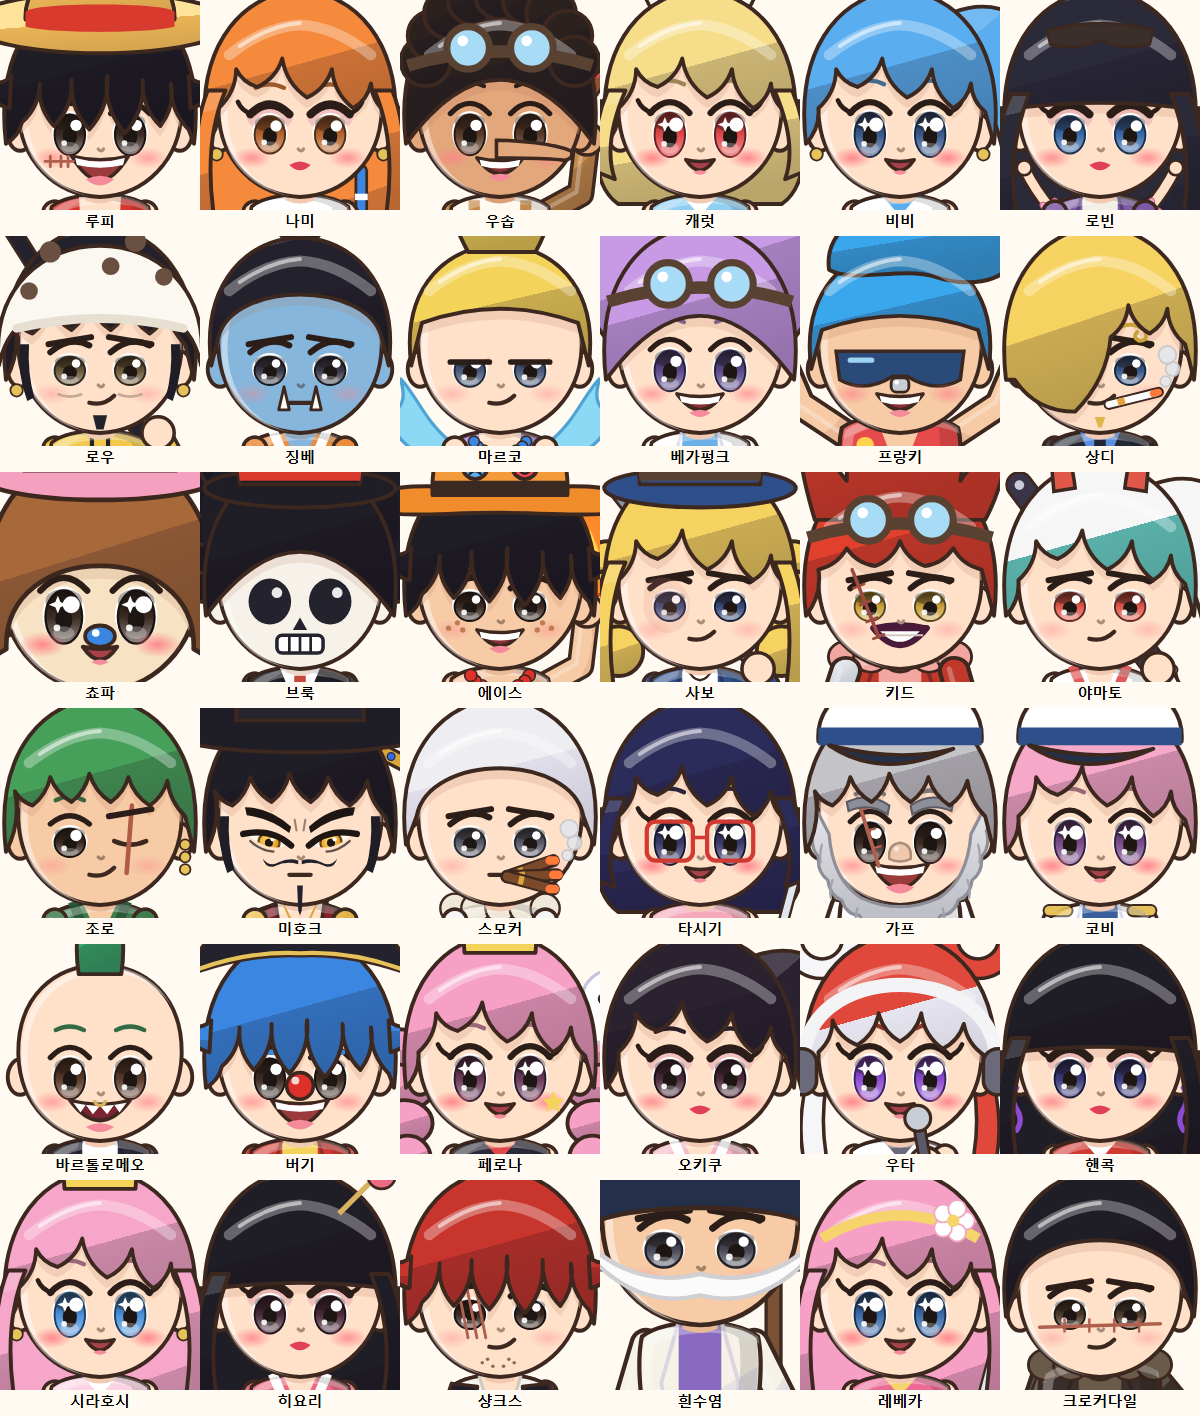
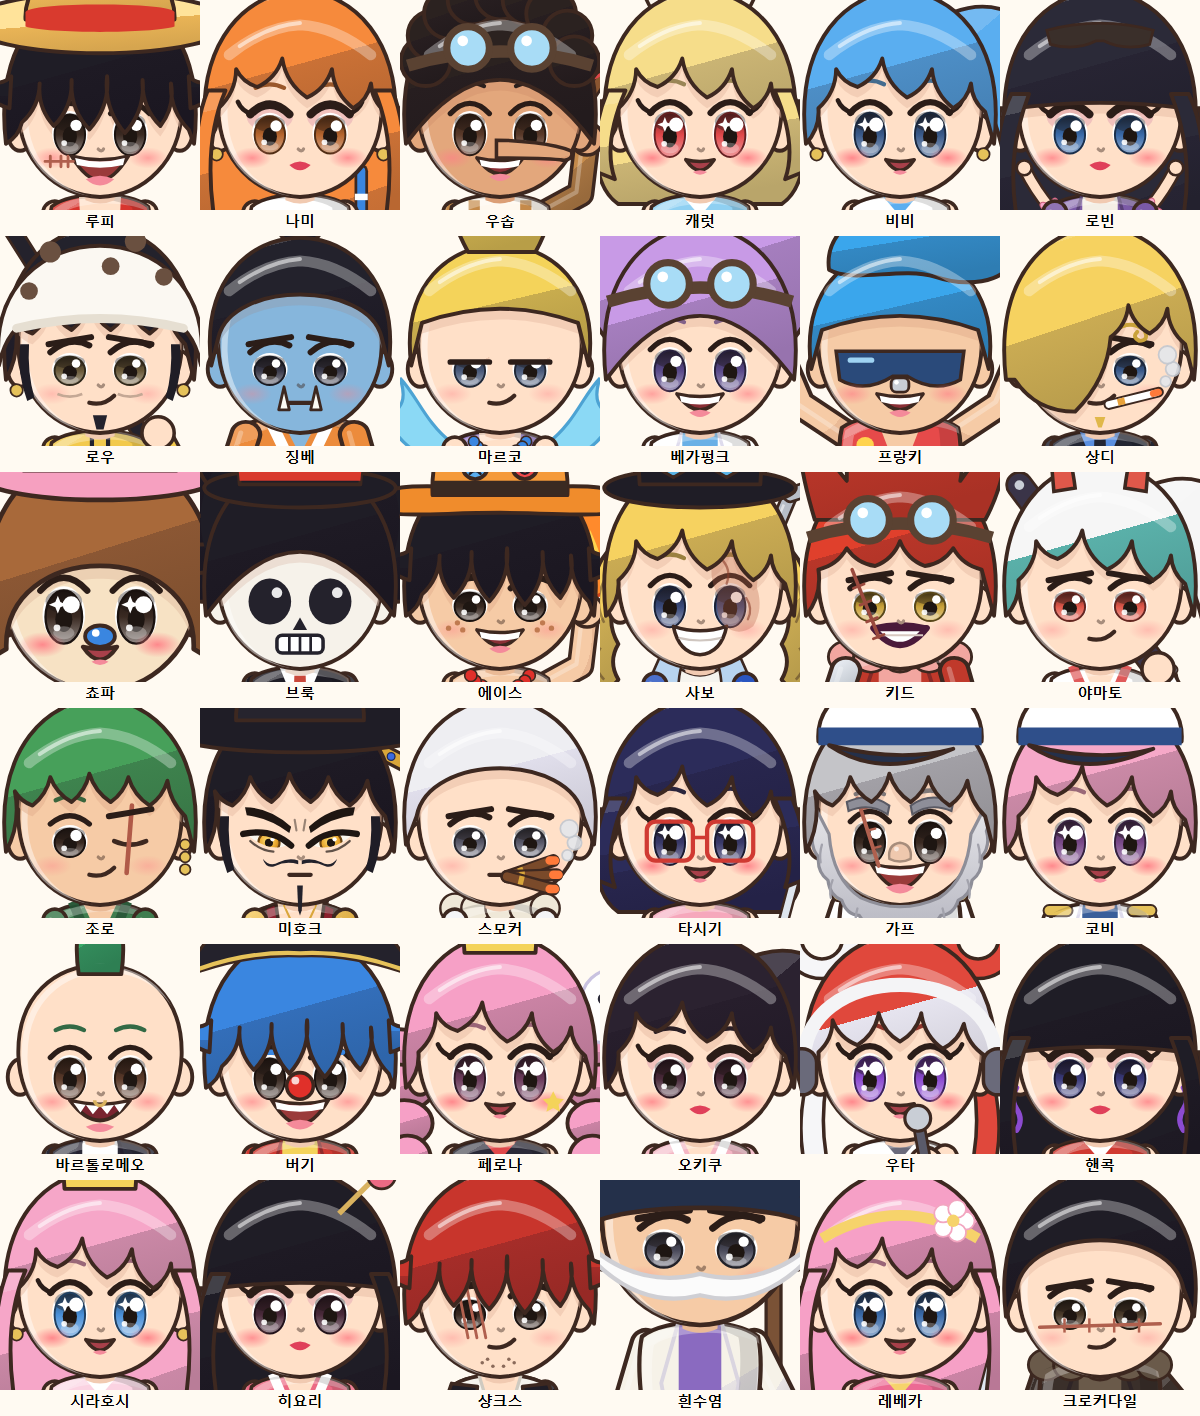
원피스직원 v2: 사보 얼굴 · 차림 다시(검은 실크해트 + 하늘색 육각 고글 · 어깨까지 물결 금발 · 왼쪽 눈 화상 흉터 · 이 드러낸 웃음 · 파란 코트 · 세운 하늘색 깃 · 큰 크라바트 · 검은 장갑 · 금 버클 완장 · 팔짱 · 등 뒤 쇠파이프) · 징베 다부진 체격 · 오피스 그림 다시 생성

Changed region(s): [[0.4933, 0.3107, 0.6783, 0.4972], [0.185, 0.2797, 0.3083, 0.3418]]

diff --git a/jugansa/ai-office/ai-jugansa/design/skins/원피스직원_v2/svg_chars.py b/jugansa/ai-office/ai-jugansa/design/skins/원피스직원_v2/svg_chars.py
@@ -31,7 +31,7 @@ ROSTER = {
     "analysis": [
         C("로빈", "blunt", "#2b2a38", "coat", "#7b5aa6", "#f4efe6", eyec="#3a6aa8", girl=True, vibe="glam", pose="cross", ex=["hana_arms", "sunglasses_head"], legs="#3a3448"),
         C("로우", "short", "#23222c", "hoodie", "#f2c94c", "#23222c", hat="law", vibe="cool", pose="shoulder", props=["nodachi"], ex=["heart_jolly", "sideburns", "goatee", "earrings_gold", "eyebags"], eyec="#6a5a3a", legs="#3a3a40"),
-        C("징베", "topknot", "#23222c", "kimono", "#ec8b3c", "#ffffff", "#2a5ea8", skin="#86b6dc", vibe="cool", mouth="flat", pose="cross", eyec="#3a3a4a", legs="#2a5ea8", ex=["tusks"]),
+        C("징베", "topknot", "#23222c", "kimono", "#ec8b3c", "#ffffff", "#2a5ea8", skin="#86b6dc", vibe="cool", mouth="flat", pose="cross", eyec="#3a3a4a", legs="#2a5ea8", ex=["burly", "tusks"]),
         C("마르코", "pineapple", "#f4d35a", "vest_open", "#8a6ac0", "#8a6ac0", vibe="cool", eyes="sleepy", pose="cross", props=["blue_flame"], ex=["wb_tattoo", "beads_blue"], eyec="#4a5a7a"),
         C("베가펑크", "big_round", "#c89ae6", "labcoat", "#ffffff", "#6ab0e6", vibe="fun", pose="hold", props=["tablet"], eyec="#5a4a8a", ex=["goggles_head"]),
     ],
@@ -41,7 +41,8 @@ ROSTER = {
         C("쵸파", "chopper_fur", "#a8693a", "fur", "#a8693a", "#f2d6b0", skin="#f7e2c4", hat="chopper", eyec="#3a2a22", vibe="cute", pose="wave", ex=["blue_nose", "tiny_body"], legs="#e88aa8", shorts=True, shoes="hoof"),
         C("브룩", "afro", "#1f1d26", "suit", "#1f1d26", "#ffffff", "#c9483b", skin="#f6f2ea", hat="tophat", eyes="skull", mouth="skull", vibe="fun", pose="hold", props=["cane"]),
         C("에이스", "messy", "#1f1d26", "shirtless", SK2, skin=SK2, hat="ace", mouth="grin", vibe="cool", pose="fist", props=["flame"], ex=["asce", "ace_belt", "freckles", "beads_red"], eyec="#3a2a22", legs="#2b3a5a", shorts=True),
-        C("사보", "wavy", "#f6d260", "coat", "#2f4f8a", "#ffffff", hat="sabo", eyec="#3a4a7a", vibe="cool", pose="shoulder", props=["pipe"], ex=["scar_sabo", "cravat"]),
+        C("사보", "wavy", "#f6d260", "coat", "#2a55c0", "#ffffff", hat="sabo", eyec="#3a4a7a", eyes="round", mouth="smile_teeth", vibe="cool", pose="cross", props=["pipe_back"],
+          ex=["scar_sabo", "popped_collar", "cravat", "black_gloves", "armband"]),
         C("키드", "flame", "#e0402c", "fur_coat", "#c0392b", "#f2a6a0", mouth="kid", vibe="cool", pose="cross", ex=["burly", "metal_arm", "stitch_scar", "goggles_head"], eyec="#c9a23a", legs="#2b2a38"),
         C("야마토", "pony", "#f6f6f6", "kimono", "#ffffff", "#e05a5a", "#8c4bd0", hair2="#6ad8cc", eyec="#e0584a", girl=True, vibe="cool", pose="shoulder", props=["club"], ex=["wrist_cuffs", "horns"], legs="#ffffff"),
     ],
@@ -114,7 +115,7 @@ def hair_front(lk):
         extra = f'<path d="M 40,-14 Q 54,22 46,60 L 57,58 Q 62,10 50,-14 Z M -40,-14 Q -54,22 -46,60 L -57,58 Q -62,10 -50,-14 Z" {H}/>'
     elif hs in ("side", "long", "long_wavy", "pony", "bob", "bunny", "drills", "wavy"):
         p = CAP + "L 48,-4 " + strands([(48, -4), (40, -20), (30, -6), (18, -28), (4, -12), (-10, -34), (-24, -18), (-36, -28), (-46, -6), (-53, 14)]) + "Z"
-        if hs in ("long", "long_wavy", "bob", "bunny", "wavy"):
+        if hs in ("long", "long_wavy", "bob", "bunny"):
             ln = 34 if hs in ("bob", "bunny") else 58
             extra = f'<path d="M 42,-16 Q 55,14 48,{ln} L 58,{ln - 4} Q 62,8 52,-16 Z M -42,-16 Q -55,14 -48,{ln} L -58,{ln - 4} Q -62,8 -52,-16 Z" {H}/>'
     elif hs == "sanji":
@@ -169,8 +170,11 @@ def hair_back(lk):
             col = lk[c]
             s += f'<path d="M {sx * 46},-10 Q {sx * 62},30 {sx * 52},64 L {sx * 40},60 Q {sx * 48},26 {sx * 36},-10 Z" fill="{col}" stroke="{INK}" stroke-width="2"/>'
             s += f'<circle cx="{sx * 44}" cy="-70" r="17" fill="none" stroke="{INK}" stroke-width="13"/><circle cx="{sx * 44}" cy="-70" r="17" fill="none" stroke="{col}" stroke-width="9"/>'
-    elif hs == "wavy":
-        for sx in (-1, 1): s += "".join(f'<circle cx="{sx * (52 - k * 2)}" cy="{-14 + k * 16}" r="14" {H}/>' for k in range(4))
+    elif hs == "wavy":       # 사보: 어깨까지 내려오는 물결 머리 (바깥으로 살짝 말림)
+        for sx in (-1, 1):
+            s += (f'<path d="M {sx * 40},-30 Q {sx * 62},-20 {sx * 58},0 Q {sx * 68},12 {sx * 60},26 Q {sx * 70},40 {sx * 58},52 Q {sx * 52},58 {sx * 46},50 '
+                  f'Q {sx * 52},40 {sx * 46},30 Q {sx * 54},16 {sx * 46},4 Q {sx * 50},-12 {sx * 36},-18 Z" {H}/>'
+                  f'<path d="M {sx * 54},-6 Q {sx * 60},6 {sx * 54},18 M {sx * 56},32 Q {sx * 62},42 {sx * 54},50" stroke="{INK}" stroke-width="1.4" fill="none" opacity=".45"/>')
     elif hs == "bun": s += f'<circle cx="0" cy="-78" r="18" {H}/>'
     elif hs == "topknot": s += f'<ellipse cx="0" cy="-72" rx="12" ry="10" {H}/>'
     elif hs in ("bob", "bunny"): s += f'<path d="M -56,-10 C -62,20 -58,40 -46,48 L 46,48 C 58,40 62,20 56,-10 Z" {H}/>'
@@ -248,6 +252,9 @@ def mouth(lk):
     if m == "grin":
         return (f'<path d="M -13,22 Q 0,40 13,22 Q 0,25 -13,22 Z" fill="#8a2f36" stroke="{INK}" stroke-width="2" stroke-linejoin="round"/>'
                 '<path d="M -11.5,23 Q 0,26 11.5,23 L 10.5,26.5 Q 0,29.5 -10.5,26.5 Z" fill="#ffffff"/><path d="M -6,32.5 Q 0,37.5 6,32.5 Q 0,29.5 -6,32.5 Z" fill="#f48a9a"/>')
+    if m == "smile_teeth":   # 사보: 이를 드러내고 씩 웃음
+        return (f'<path d="M -15,20 Q 0,25 15,20 Q 12,35 0,36 Q -12,35 -15,20 Z" fill="#ffffff" stroke="{INK}" stroke-width="2" stroke-linejoin="round"/>'
+                '<path d="M -12,26.5 Q 0,29.5 12,26.5" stroke="#cfc6c0" stroke-width="1.2" fill="none"/>')
     if m == "wild":         # 바르톨로메오: 크게 벌린 입 + 들쭉날쭉한 이
         return (f'<path d="M -17,21 Q 0,44 17,21 Q 0,26 -17,21 Z" fill="#7a2430" stroke="{INK}" stroke-width="2.2" stroke-linejoin="round"/>'
                 '<path d="M -15,22.5 L -11,28 L -8,23.6 L -4,29 L 0,24.2 L 4,29 L 8,23.6 L 11,28 L 15,22.5 Q 0,26 -15,22.5 Z" fill="#ffffff"/>'
@@ -279,7 +286,9 @@ def face_extras(lk):
     if "goatee" in ex: s += '<path d="M -4,34 L 4,34 L 2,42 L -2,42 Z" fill="#23222c"/>'
     if "goatee_blond" in ex: s += '<path d="M -3,35 L 3,35 L 1,41 L -1,41 Z" fill="#e0b84a"/>'
     if "eyebags" in ex: s += f'<path d="M -24,22 Q -17,25 -10,22 M 10,22 Q 17,25 24,22" stroke="{mix(sk, INK, 0.3)}" stroke-width="1.5" fill="none"/>'
-    if "scar_sabo" in ex: s += '<path d="M -31,-4 Q -24,-10 -14,-6 Q -4,0 -6,12 Q -8,22 -18,24 Q -30,22 -32,10 Z" fill="#d88a7a" opacity=".16"/>'
+    if "scar_sabo" in ex:
+        s += '<path d="M 8,-22 Q 16,-30 26,-24 Q 34,-14 32,-2 Q 36,10 30,20 Q 22,26 14,20 Q 8,12 10,2 Q 4,-8 8,-22 Z" fill="#b8644a" opacity=".32"/>'
+        s += '<path d="M 12,-18 Q 18,-12 15,-4 M 26,4 Q 30,10 27,16" stroke="#8a3e2c" stroke-width="1.3" fill="none" opacity=".6" stroke-linecap="round"/>'
     if "scar_shanks" in ex: s += "".join(f'<path d="M {-24 + k * 5},-8 L {-18 + k * 5},22" stroke="#b0604e" stroke-width="1.6" stroke-linecap="round"/>' for k in range(3))
     if "scar_croc" in ex: s += '<path d="M -34,16 L 34,14" stroke="#b0604e" stroke-width="2" stroke-linecap="round"/>' + "".join(f'<path d="M {x},11 L {x},19" stroke="#b0604e" stroke-width="1.4"/>' for x in (-20, -6, 8, 22))
     if "scar_garp" in ex: s += '<path d="M -24,-16 L -12,22" stroke="#b0604e" stroke-width="2.2" stroke-linecap="round"/><path d="M -22,-10 l 4,-1 M -18,2 l 4,-1 M -15,12 l 4,-1" stroke="#b0604e" stroke-width="1.4" stroke-linecap="round"/>'
@@ -347,10 +356,13 @@ def hat(lk):
                 '<path d="M -17,-72 L -16,-71 M -12,-72 L -11,-71 M -17,-66 Q -14,-69 -11,-66" stroke="#1f1d26" stroke-width="1.4" fill="none" stroke-linecap="round"/>'
                 '<path d="M 11,-72 L 12,-71 M 16,-72 L 17,-71 M 11,-68 Q 14,-64 17,-68" stroke="#1f1d26" stroke-width="1.4" fill="none" stroke-linecap="round"/>')
     if h in ("tophat", "sabo"):
-        c = "#1f1d26" if h == "tophat" else "#2f4f8a"
-        g = "".join(f'<circle cx="{sx * 14}" cy="-86" r="10" fill="#a8dcf6" stroke="#5a4232" stroke-width="3.5"/>' for sx in (-1, 1)) if h == "sabo" else ""
+        c = "#1f1d26"
+        hexa = lambda cx, cy, r: " ".join(f"{cx + r * math.cos(math.radians(30 + k * 60)):.1f},{cy + r * math.sin(math.radians(30 + k * 60)):.1f}" for k in range(6))
+        g = (f'<path d="M -35,-76 L 35,-76 L 35,-68 L -35,-68 Z" fill="#2a7a8a"/>'
+             + "".join(f'<polygon points="{hexa(sx * 15, -76, 12)}" fill="#5ab4e6" stroke="{INK}" stroke-width="1.8"/><polygon points="{hexa(sx * 15, -76, 7.5)}" fill="#24203a"/><path d="M {sx * 15 - 4},-80 L {sx * 15 + 1},-73" stroke="#8a7ae0" stroke-width="2" opacity=".8"/>' for sx in (-1, 1))
+             + '<rect x="-4" y="-79" width="8" height="5" rx="1.5" fill="#c9ced6" stroke="#3d2820" stroke-width="1"/>') if h == "sabo" else ""
         return (f'<ellipse cx="0" cy="-58" rx="54" ry="11" fill="{c}" {S}/><path d="M -34,-60 L -38,-128 Q 0,-136 38,-128 L 34,-60 Z" fill="{c}" {S}/>'
-                f'<path d="M -35,-72 L 35,-72 L 34,-62 L -34,-62 Z" fill="{"#d93a2e" if h == "tophat" else "#5a4232"}"/>' + g)
+                + (f'<path d="M -35,-72 L 35,-72 L 34,-62 L -34,-62 Z" fill="#d93a2e"/>' if h == "tophat" else "") + g)
     if h == "chopper":
         ant = "".join(f'<path d="M {sx * 30},-80 Q {sx * 52},-96 {sx * 58},-124 M {sx * 50},-100 Q {sx * 66},-100 {sx * 74},-112 M {sx * 44},-90 Q {sx * 34},-108 {sx * 38},-120" stroke="#8a5530" stroke-width="7" fill="none" stroke-linecap="round"/>' for sx in (-1, 1))
         return (ant + f'<ellipse cx="0" cy="-58" rx="58" ry="12" fill="#f6a0c0" {S}/><path d="M -36,-60 Q -42,-118 0,-120 Q 42,-118 36,-60 Z" fill="#f8acc8" {S}/>'
@@ -422,6 +434,7 @@ def props_behind(lk, R):
             s += stick(58, 96, -66, -100, 8, "#24222c") + "".join(f'<path d="M {58 - k * 22},{96 - k * 35} l -5,4 m 0,-8 l 10,8" stroke="#ffffff" stroke-width="1.6"/>' for k in range(1, 5))
             s += f'<ellipse cx="46" cy="78" rx="9" ry="5" fill="#f4f1ea" stroke="{INK}" stroke-width="1.6"/>'
         elif p == "pipe": s += stick(hx + 4, hy + 6, -52, -66, 6, "#8a93a3")
+        elif p == "pipe_back": s += stick(-34, 150, 56, -64, 7, "#b8bec8") + stick(56, -64, 74, -70, 7, "#b8bec8") + '<path d="M -30,140 L 52,-58" stroke="#ffffff" stroke-width="1.6" opacity=".55"/>'
         elif p == "club":
             s += stick(hx + 4, hy + 6, -50, -70, 14, "#3a3448") + "".join(f'<circle cx="{-50 + k * 14}" cy="{-70 + k * 19}" r="3" fill="#c9ced6"/>' for k in range(4))
         elif p == "bisento":
@@ -513,7 +526,11 @@ def outfit(lk, team):
     if "cross_necklace" in lk["ex"]:
         s += '<path d="M -10,44 Q -4,58 0,62 Q 4,58 10,44" stroke="#d9a63a" stroke-width="1.3" fill="none"/>'
         s += f'<path d="M -1.8,61 L 1.8,61 L 1.8,65 L 6,65 L 6,68.5 L 1.8,68.5 L 1.8,78 L -1.8,78 L -1.8,68.5 L -6,68.5 L -6,65 L -1.8,65 Z" fill="#e6b84a" stroke="{INK}" stroke-width="1.1"/>'
-    if "cravat" in lk["ex"]: s += f'<path d="M -9,42 Q 0,60 9,42 Q 0,48 -9,42 Z" fill="#ffffff" stroke="{INK}" stroke-width="1.5"/>'
+    if "popped_collar" in lk["ex"]: s += "".join(f'<path d="M {sx * 6},44 L {sx * 22},30 L {sx * 30},48 L {sx * 14},56 Z" fill="#b8d4f0" stroke="{INK}" stroke-width="1.6" stroke-linejoin="round"/>' for sx in (-1, 1))
+    if "cravat" in lk["ex"]:
+        big = "popped_collar" in lk["ex"]
+        s += (f'<path d="M -12,44 Q 0,52 12,44 Q 16,62 8,74 Q 12,86 4,96 L -4,96 Q -12,86 -8,74 Q -16,62 -12,44 Z" fill="#f6f4ee" stroke="{INK}" stroke-width="1.6" stroke-linejoin="round"/>'
+              '<path d="M -4,56 Q -2,72 -5,88 M 4,56 Q 2,72 5,88" stroke="#d6d0c4" stroke-width="1.3" fill="none"/>') if big else f'<path d="M -9,42 Q 0,60 9,42 Q 0,48 -9,42 Z" fill="#ffffff" stroke="{INK}" stroke-width="1.5"/>'
     return s
 
 def skirt_tails(lk):
@@ -586,13 +603,17 @@ def body(lk, team, pose=None):
             out_ += band(1, 0.82, "#8a5a30", 4); x, y, dx, dy = at(1, 0.82)
             out_ += f'<circle cx="{x - dy * 9:.1f}" cy="{y + dx * 9:.1f}" r="4.2" fill="#cfeefb" stroke="{INK}" stroke-width="1.2"/><path d="M {x - dy * 9 - 2:.1f},{y + dx * 9:.1f} L {x - dy * 9 + 2:.1f},{y + dx * 9:.1f}" stroke="#e0484a" stroke-width="1.2"/>'
         if "wrist_cuffs" in ex: out_ += band(len(pts) - 2, 0.84, "#8a93a3", 5)
+        if "armband" in ex and side == "R":
+            out_ += band(0, 0.62, "#1f1d26", 7); x, y, _, _ = at(0, 0.62)
+            out_ += f'<rect x="{x - 3.5:.1f}" y="{y - 4:.1f}" width="7" height="8" rx="1" fill="none" stroke="#e6b84a" stroke-width="1.8"/>'
         return out_
     out = {"behind": "", "front": "", "after_head": ""}
     out["behind"] += props_behind(lk, Rp) + legs(lk)
+    glove = "#1f1d26" if "black_gloves" in lk["ex"] else None
     arms_b, arms_f, hands = "", "", ""
     if Lp and "no_left_arm" not in lk["ex"]:
         metal = "metal_arm" in lk["ex"]
-        a, h = arm(Lp, "url(#steel§)" if metal else col, hand="hook" not in lk["ex"], skin="url(#steel§)" if metal else "url(#skin§)"); a += deco(Lp, "L")
+        a, h = arm(Lp, "url(#steel§)" if metal else col, hand="hook" not in lk["ex"], skin="url(#steel§)" if metal else glove or "url(#skin§)"); a += deco(Lp, "L")
         if metal: a += "".join(f'<circle cx="{Lp[0][0] + (Lp[-1][0] - Lp[0][0]) * t:.1f}" cy="{Lp[0][1] + (Lp[-1][1] - Lp[0][1]) * t:.1f}" r="1.8" fill="#5a606a"/>' for t in (0.25, 0.5, 0.75))
         if pose in IN_FRONT: arms_f += a
         else: arms_b += a
@@ -600,7 +621,7 @@ def body(lk, team, pose=None):
         if "hook" in lk["ex"]:
             hx, hy = Lp[-1]; hands += f'<path d="M {hx},{hy - 4} L {hx},{hy + 6} Q {hx},{hy + 22} {hx - 14},{hy + 18}" stroke="{INK}" stroke-width="7" fill="none" stroke-linecap="round"/><path d="M {hx},{hy - 4} L {hx},{hy + 6} Q {hx},{hy + 22} {hx - 14},{hy + 18}" stroke="#e6c25a" stroke-width="4" fill="none" stroke-linecap="round"/>'
     if Rp:
-        a, h = arm(Rp, col, fist=pose in ("fist", "shoulder", "hold", "sing"), hand=pose != "pockets"); a += deco(Rp, "R")
+        a, h = arm(Rp, col, fist=pose in ("fist", "shoulder", "hold", "sing"), hand=pose != "pockets", skin=glove or "url(#skin§)"); a += deco(Rp, "R")
         if pose in IN_FRONT: arms_f += a
         elif pose == "sing": out["after_head"] += a
         else: arms_b += a
